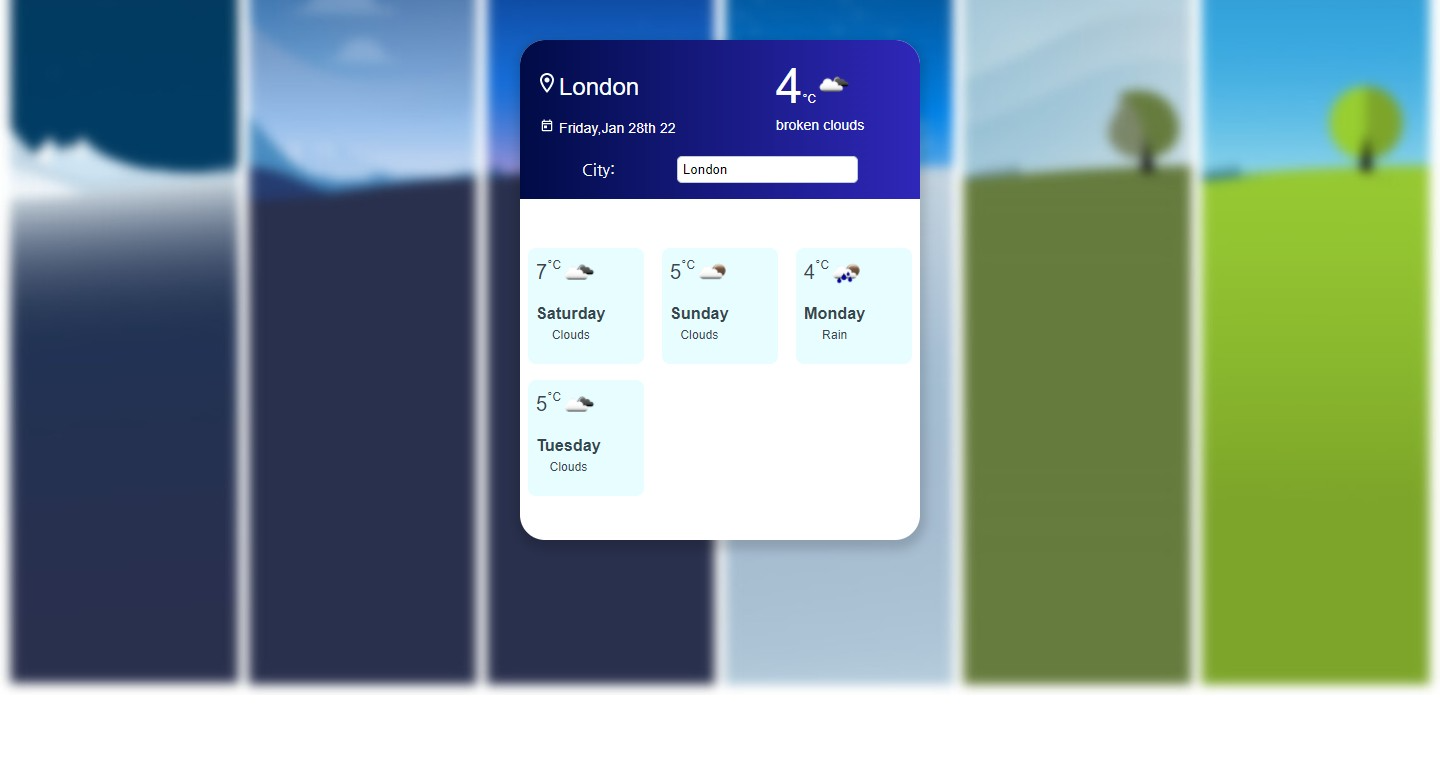
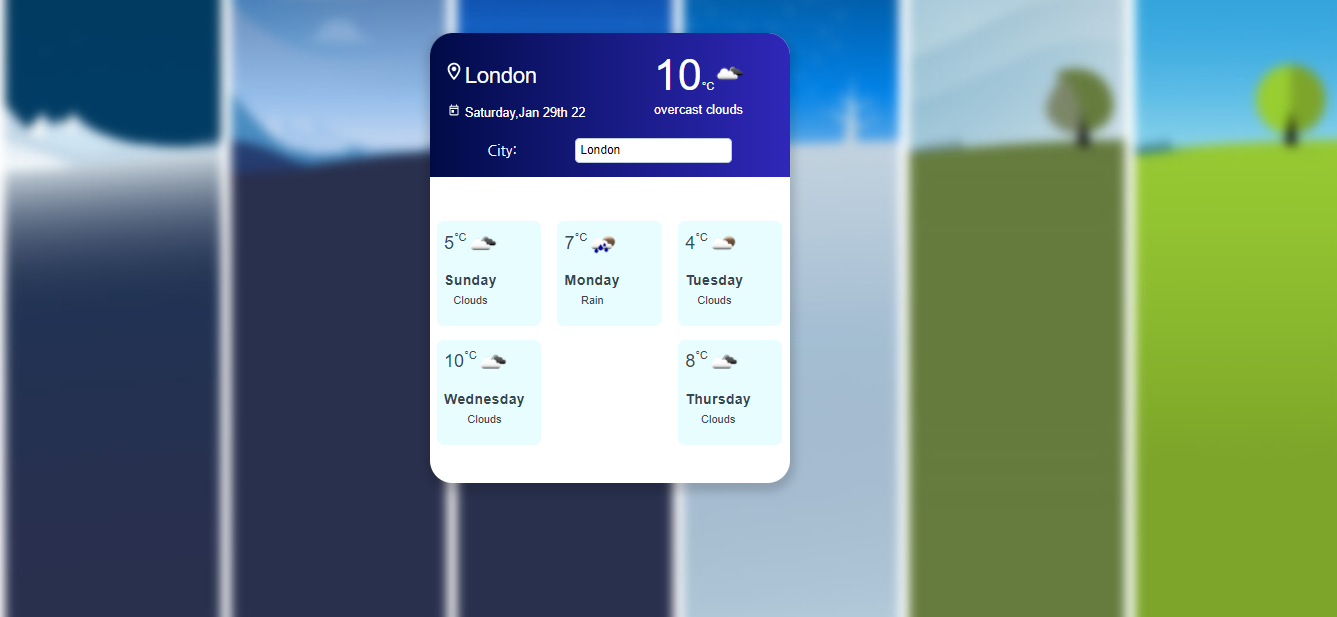
reponsive

diff --git a/src/components/Weather.jsx b/src/components/Weather.jsx
@@ -2,7 +2,7 @@ import React, { useEffect, useState } from "react";
 import Typography from "@mui/material/Typography";
 //Import Others library
 import moment from "moment";
-import {  Skeleton, Stack } from "@mui/material";
+import { Container, Skeleton, Stack } from "@mui/material";
 //Import Icons
 import LocationOnOutlinedIcon from "@mui/icons-material/LocationOnOutlined";
 import TodayOutlinedIcon from "@mui/icons-material/TodayOutlined";
@@ -46,7 +46,7 @@ const Weather = () => {
           days: data.list,
         });
       })
-      .catch((err) => console.log(err))
+      .catch((err) => console.log(err));
   }
 
   useEffect(() => {
@@ -62,7 +62,12 @@ const Weather = () => {
   return (
     <>
       <React.Fragment>
-        <main className="container">
+        <Container
+          maxWidth="sm"
+          style={{
+            justifyContent: "center",
+            margin: "2.5rem auto",
+          }}>
           <div
             className="card"
             style={{
@@ -137,7 +142,7 @@ const Weather = () => {
               <DaysDetails data={data.days} />
             </div>
           </div>
-        </main>
+        </Container>
       </React.Fragment>
     </>
   );

diff --git a/src/components/weather.css b/src/components/weather.css
@@ -40,33 +40,13 @@
   font-weight: 200;
   padding-left: 20px;
 }
-.img_info_desc{
+.img_info_desc {
   text-align: left;
   font-size: 12px;
   font-weight: 200;
   margin-top: 0;
 }
 
-@media screen and (max-width: 1400px) {
-  .container {
-    display: flex;
-    margin: 2.5rem auto;
-    justify-content: center;
-    align-items: center;
-    width: 85%;
-    height: 500px;
-  }
-}
-@media screen and (min-width: 600px) {
-  .container {
-    display: flex;
-    margin: 2.5rem auto;
-    justify-content: center;
-    align-items: center;
-    width: 85%;
-    height: 500px;
-  }
-}
 .top_info {
   display: flex;
   /* background-color: #000b46; */
